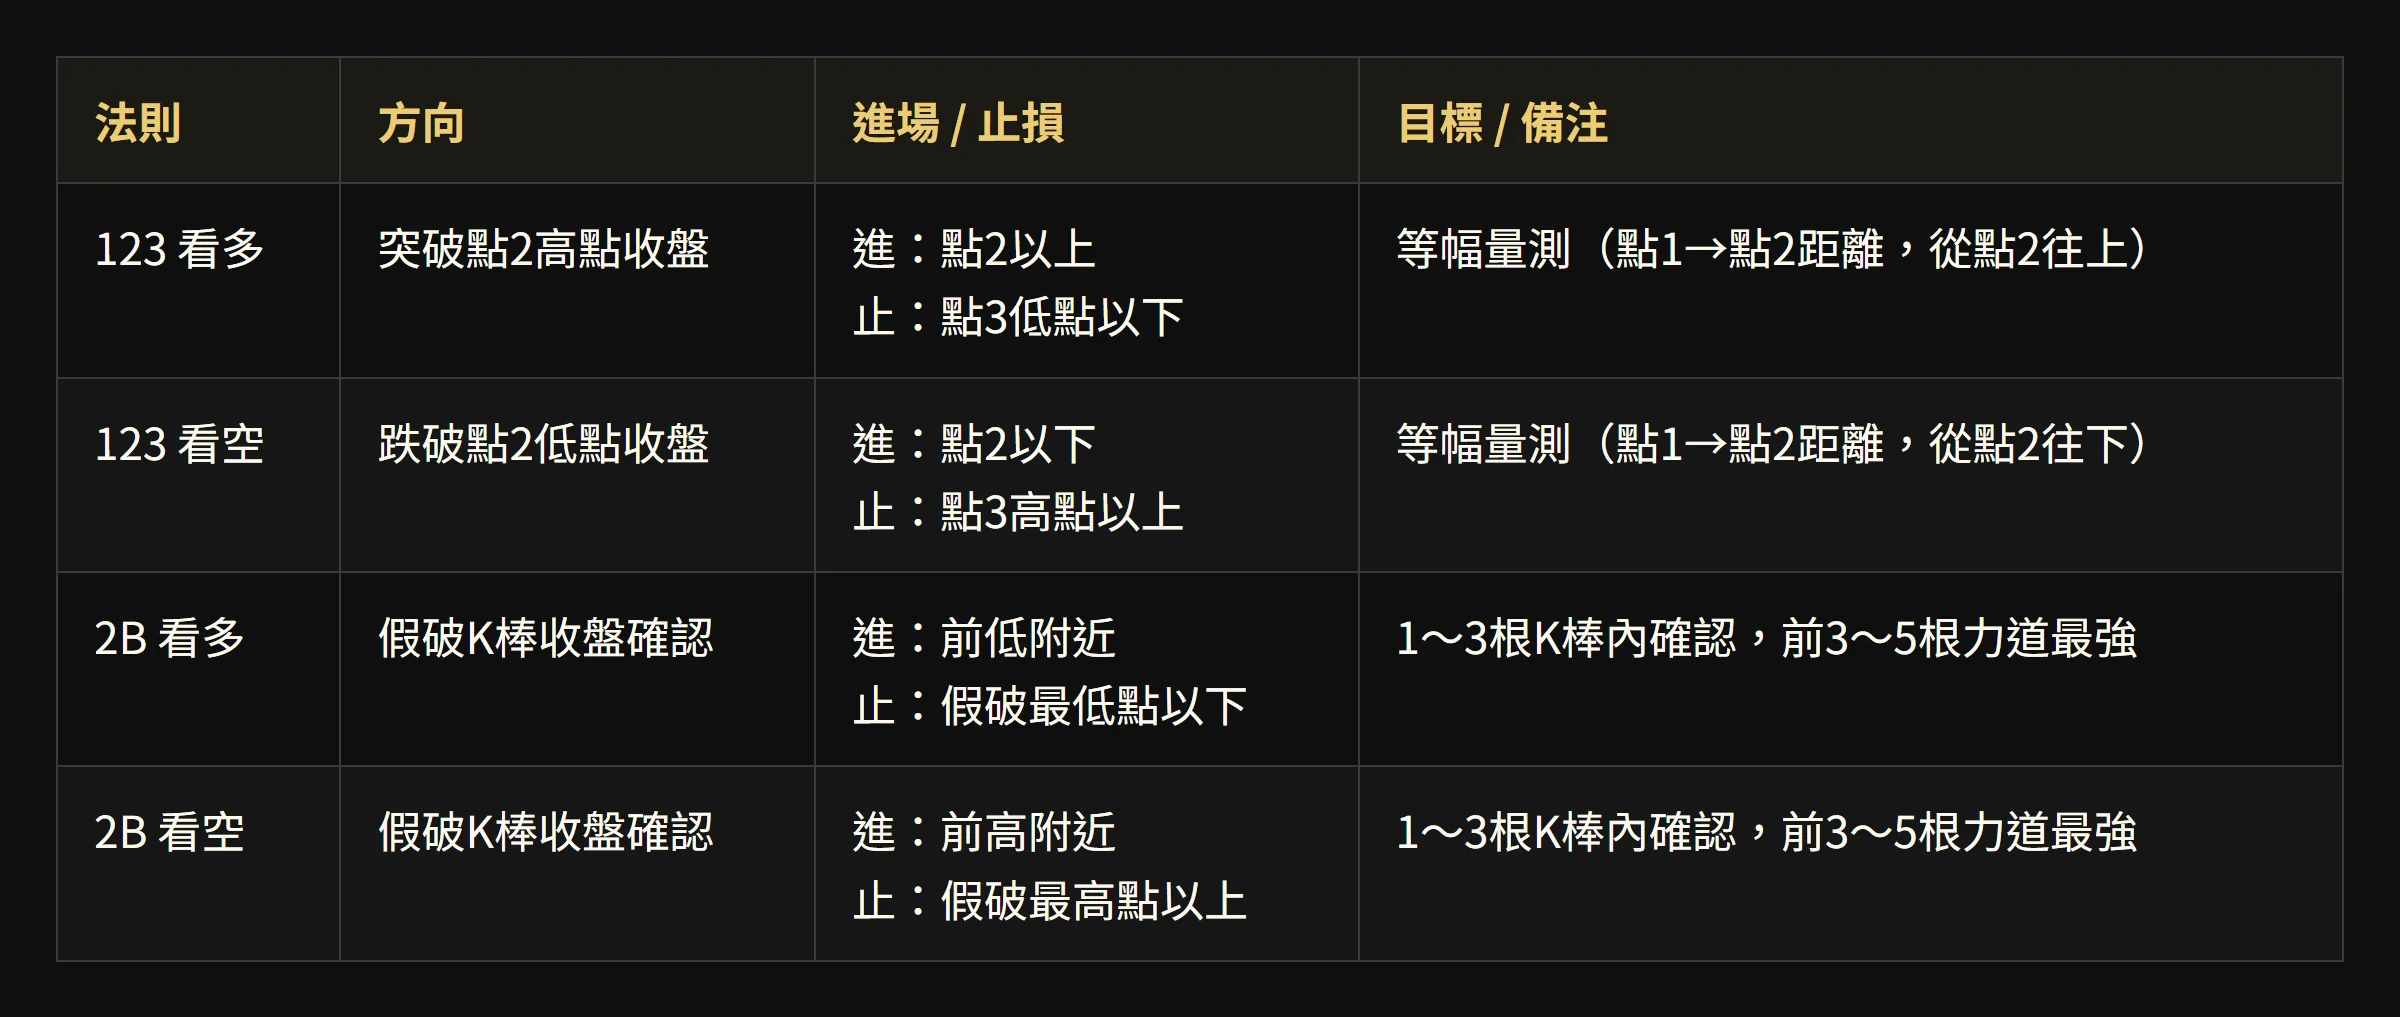
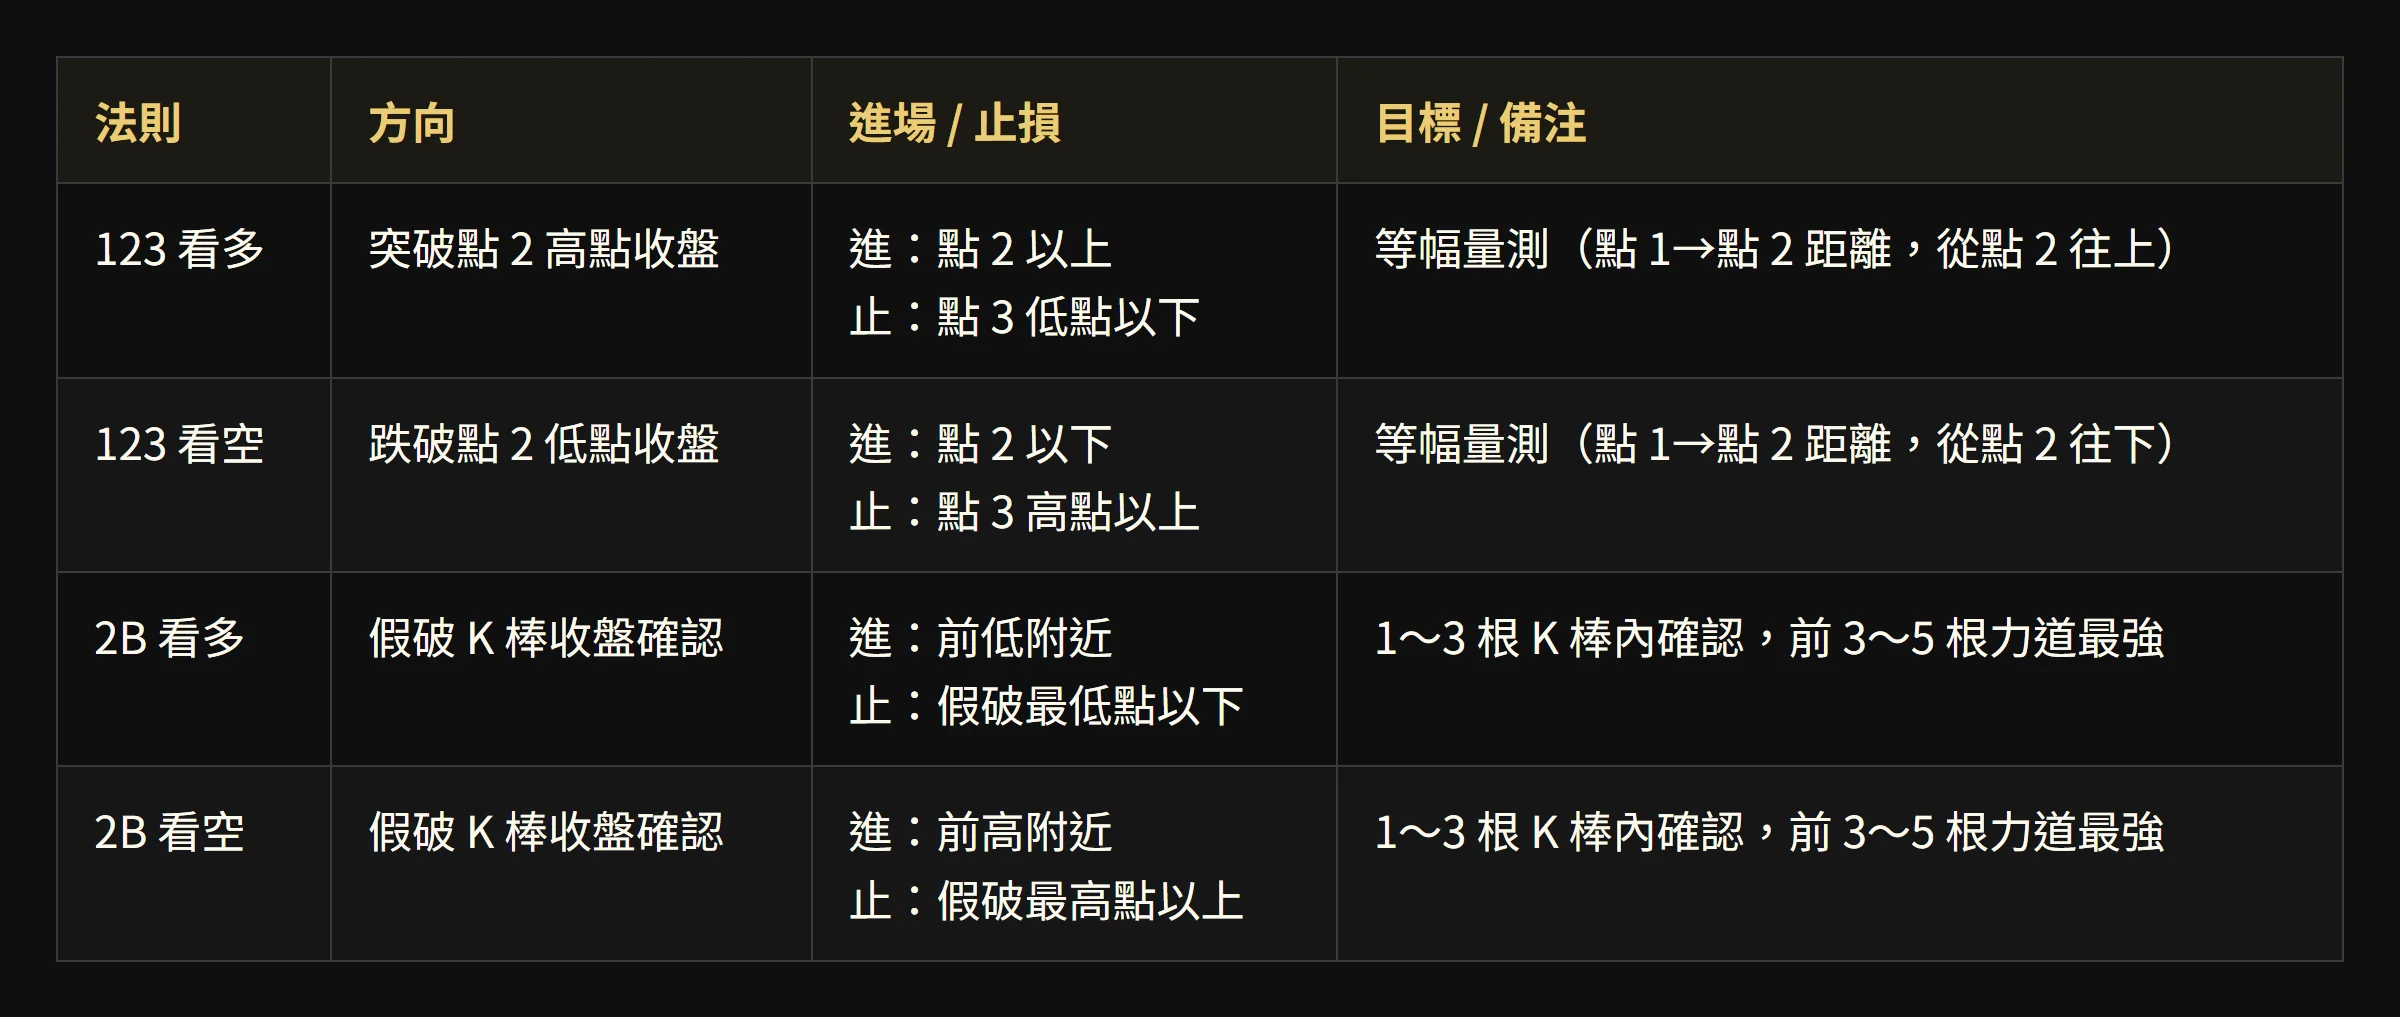
Images for technical-analysis/123-2b-rules

diff --git a/tools/text_style.py b/tools/text_style.py
@@ -1,0 +1,57 @@
+"""檢查／修正文章 HTML 的 DOUZO 文字規範（只動文字和 alt，不動標籤、網址）。
+用法：python -I -X utf8 tools/text_style.py <專案資料夾>/articles/<文章slug> [--fix]
+- 中文與英文、數字之間加半形空格；% 跟中文之間加空格；全形括號、標點緊鄰英數不加空格。
+- 「...」改「……」；全形英數改半形。
+- 「！！！」、品牌寫法（Douzo、Doya）只列出，不自動改。
+--fix 會改寫 <文章資料夾>/body.html；之後要重跑 table_img.py、img_hosting.py。"""
+import sys, re, pathlib
+
+CJK = r"[㐀-䶿一-鿿]"
+AN = r"[A-Za-z0-9]"
+RULES = [
+    (re.compile(f"({CJK})({AN})"), r"\1 \2", "中文接英數沒空格"),
+    (re.compile(f"({AN}|%)({CJK})"), r"\1 \2", "英數或 % 接中文沒空格"),
+    (re.compile(r"\.\.\."), "……", "「...」應為「……」"),
+]
+FLAGS = [
+    (re.compile(r"！！"), "連續驚嘆號"),
+    (re.compile(r"\bDOUZO\b|\bdouzo\b(?![./@])"), "品牌寫法應為 Douzo"),
+    (re.compile(r"\bDOYA\b|\bdoya\b(?![./-])"), "品牌寫法應為 Doya"),
+]
+FW = str.maketrans({chr(c): chr(c - 0xFEE0) for c in list(range(0xFF10, 0xFF1A)) + list(range(0xFF21, 0xFF3B)) + list(range(0xFF41, 0xFF5B))})
+
+
+def fix_text(t, hits):
+    t2 = t.translate(FW)
+    if t2 != t:
+        hits.append(("全形英數", t[:40]))
+    for rx, rep, why in RULES:
+        for m in rx.finditer(t2):
+            hits.append((why, t2[max(0, m.start() - 8):m.end() + 8]))
+        t2 = rx.sub(rep, t2)
+    return t2
+
+
+d = pathlib.Path(sys.argv[1])
+src = (d / "body.html").read_text(encoding="utf-8")
+hits, flags = [], []
+
+
+def seg(m):
+    tag, text = m.group(1), m.group(2)
+    tag = re.sub(r'alt="([^"]*)"', lambda a: 'alt="' + fix_text(a.group(1), hits) + '"', tag)
+    for rx, why in FLAGS:
+        for f in rx.finditer(text):
+            flags.append((why, text[max(0, f.start() - 8):f.end() + 8]))
+    return tag + fix_text(text, hits)
+
+
+out = re.sub(r"(<[^>]*>)([^<]*)", seg, src)
+print(f"{d.name}: 要改 {len(hits)} 處，要人看 {len(flags)} 處")
+for why, ctx in hits[:int(sys.argv[3]) if len(sys.argv) > 3 else 8]:
+    print("  改", why, "｜", ctx.replace("\n", " "))
+for why, ctx in flags:
+    print("  看", why, "｜", ctx.replace("\n", " "))
+if "--fix" in sys.argv and out != src:
+    (d / "body.html").write_text(out, encoding="utf-8")
+    print("  已寫回 body.html")
